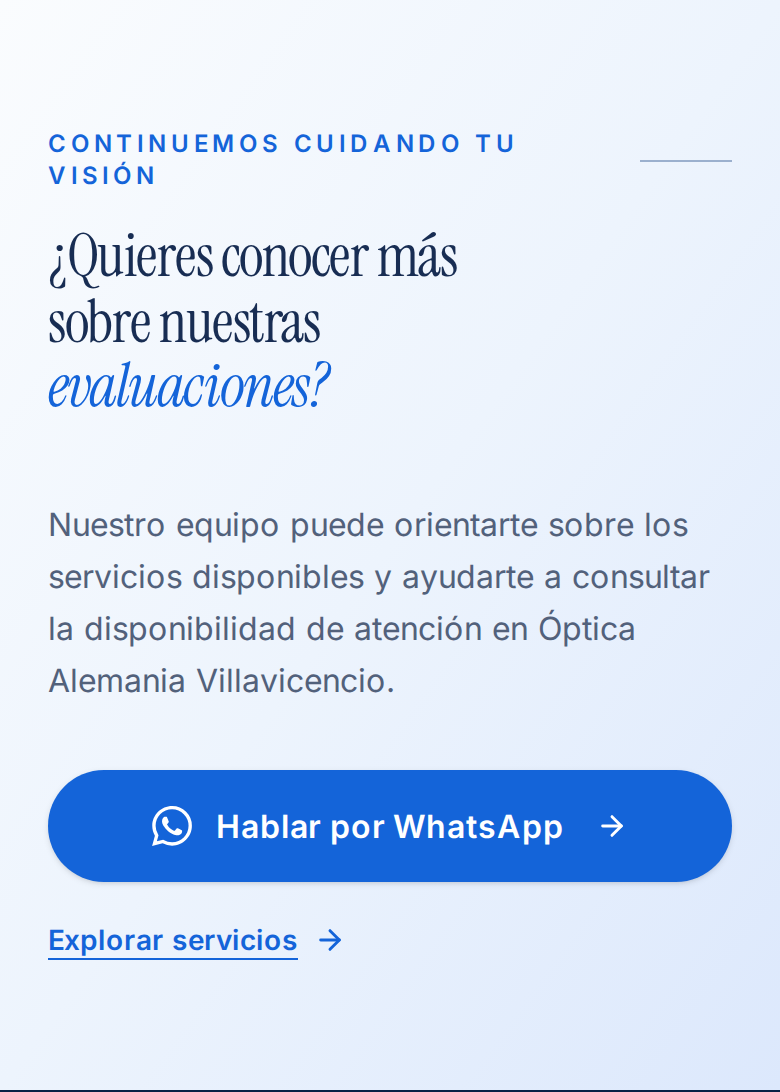
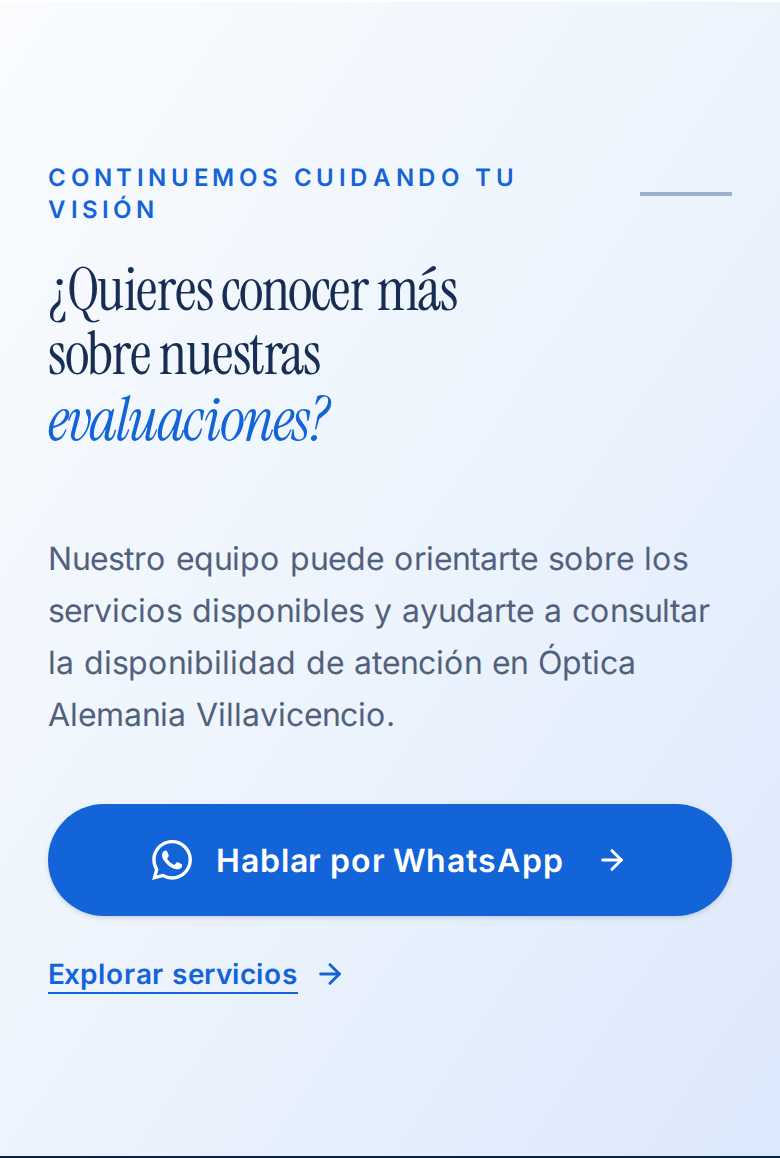
feat(procedimientos): refine visual fidelity and captions matching mockups 1:1

diff --git a/odd/tasks/optica-alemania-procedimientos.md b/odd/tasks/optica-alemania-procedimientos.md
@@ -29,3 +29,4 @@ S10: "Certificación Visual Playwright: Script de prueba automatizado (scripts/t
 L1: "perfecto rey, ahora hagamos la pagina de procedimientos creo que se llama, analiza antes de empezar rey"
 L2: "si rey, dale, arranca"
 L3: "conitnua rey" — Refinamiento a fidelidad 1:1 de los 5 componentes (tipografía editorial, orden responsivo mobile, remoción de marcas de agua pesadas, proporción 60% en hero desktop), verificación Playwright completa en verde (0 errores consola, 0 404s, 0 overflow horizontal) y generación de comparativas visuales side-by-side con Sharp.
+L4: "haz una verificacion de nuevo, usando el navegador de playw para ver lo que se hizo y comprarlos contra los mockups y modificar lo que haga falta" — Auditoría visual forense con Playwright: adición de subtítulos verbatim en tarjetas de galería ("Una evaluación completa y detallada de la salud visual con tecnología de precisión." / "Cuidado especializado y adaptado a las necesidades de los más pequeños con paciencia y calidez."), padding generoso y escala tipográfica agrandada en CTA Banner, captura de Hero con Navbar incluida para alineación 1:1 en comparativas, y regeneración de comparativas visuales side-by-side Sharp con cero errores.
